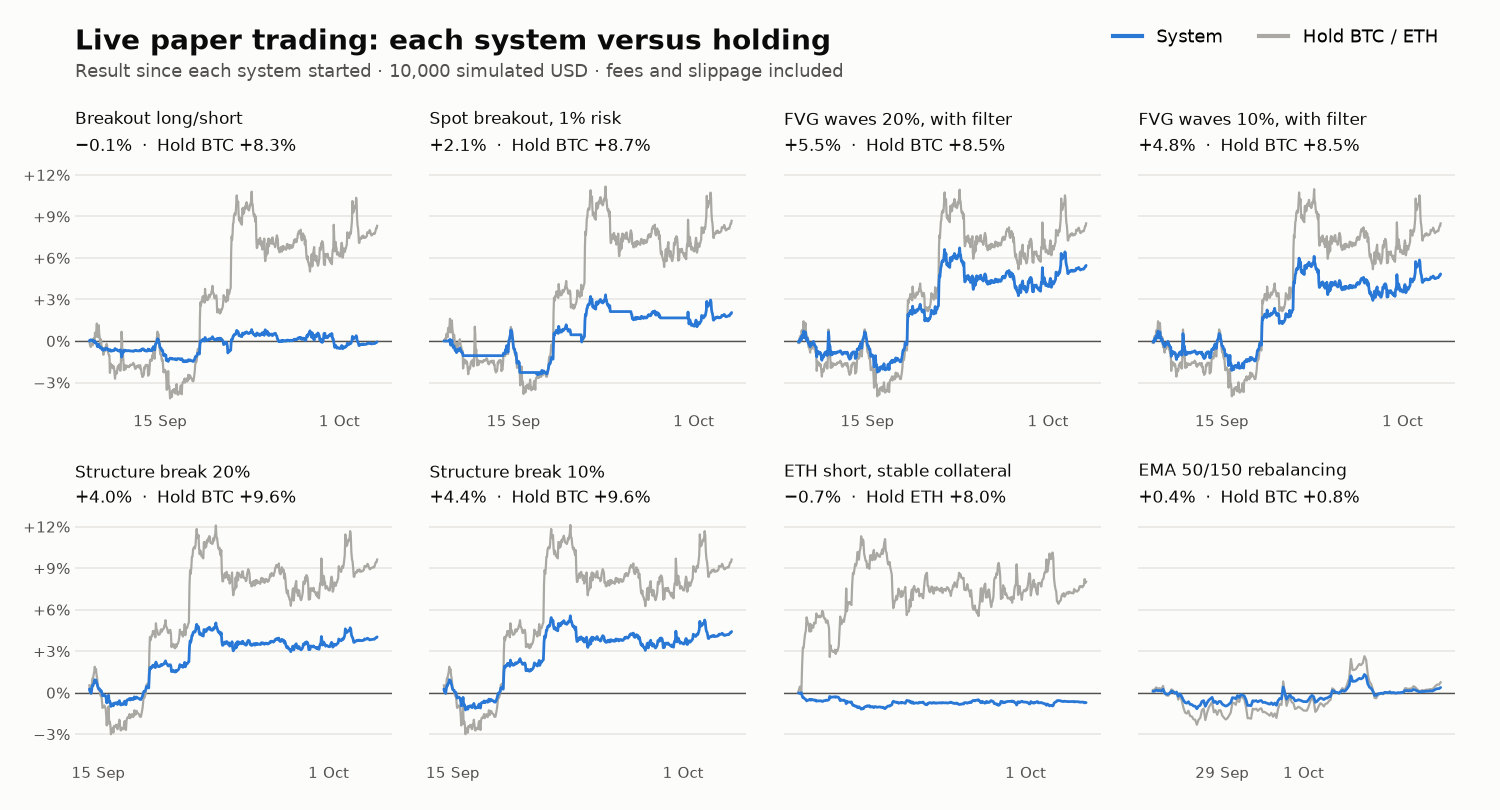
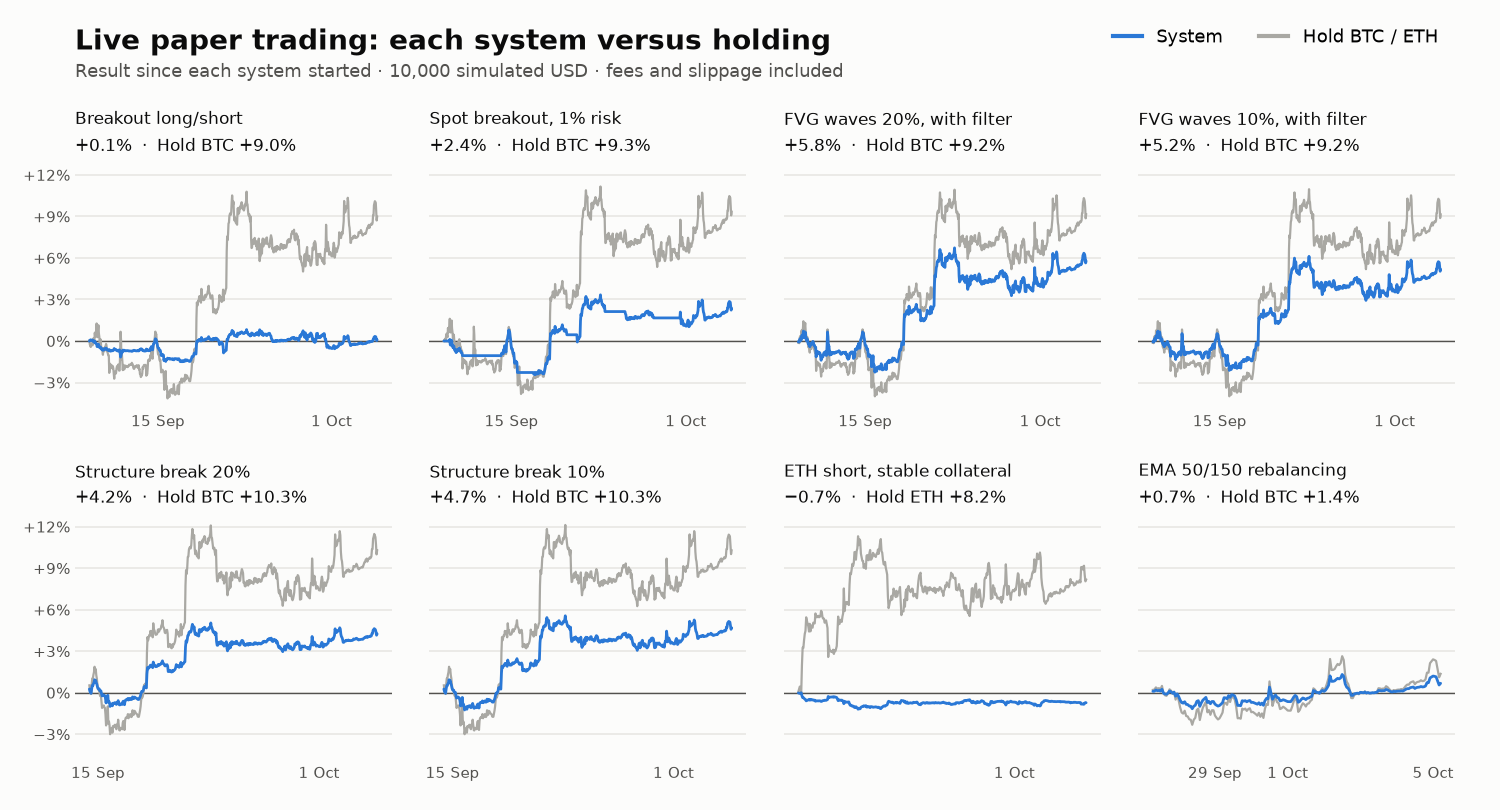
Paper trading: foto del 2026-10-05

diff --git a/live/README.es.md b/live/README.es.md
@@ -2,26 +2,26 @@
 
 [English](README.md) · **Español**
 
-**Actualizado el 4 oct 2026.** Esta página la regenera un script una vez al día a partir del estado de los motores. El historial de commits de esta carpeta deja fechada cada foto.
+**Actualizado el 5 oct 2026.** Esta página la regenera un script una vez al día a partir del estado de los motores. El historial de commits de esta carpeta deja fechada cada foto.
 
 ![Equity](equity_es.png)
 
 | Sistema | En marcha desde | Resultado | Caída máxima | Operaciones | Holdear en el periodo |
 |---|---|---|---|---|---|
-| Breakout long/short | 8 sep | −0,1% | −1,9% | 11 | +8,3% |
-| Breakout spot, riesgo 1% | 8 sep | +2,1% | −3,7% | 5 | +8,7% |
-| Ondas FVG 20% con filtro | 8 sep | +5,5% | −3,4% | 2 | +8,5% |
-| Ondas FVG 10% con filtro | 8 sep* | +4,8% | −3,2% | 2 | +8,5% |
-| Ruptura de estructura 20% | 14 sep | +4,0% | −2,2% | 2 | +9,6% |
-| Ruptura de estructura 10% | 14 sep* | +4,4% | −2,5% | 2 | +9,6% |
-| Corto ETH, colateral estable | 18 sep | −0,7% | −1,3% | 1 | ETH +8,0% |
-| Rebalanceo EMA 50/150 | 27 sep | +0,4% | −1,9% | 0 | +0,8% |
+| Breakout long/short | 8 sep | +0,1% | −1,9% | 11 | +9,0% |
+| Breakout spot, riesgo 1% | 8 sep | +2,4% | −3,7% | 5 | +9,3% |
+| Ondas FVG 20% con filtro | 8 sep | +5,8% | −3,4% | 2 | +9,2% |
+| Ondas FVG 10% con filtro | 8 sep* | +5,2% | −3,2% | 2 | +9,2% |
+| Ruptura de estructura 20% | 14 sep | +4,2% | −2,2% | 2 | +10,3% |
+| Ruptura de estructura 10% | 14 sep* | +4,7% | −2,5% | 2 | +10,3% |
+| Corto ETH, colateral estable | 18 sep | −0,7% | −1,3% | 1 | ETH +8,2% |
+| Rebalanceo EMA 50/150 | 27 sep | +0,7% | −1,9% | 0 | +1,4% |
 
 *\* Las variantes del 10% se añadieron el 22 de septiembre de 2026. Su histórico anterior se reconstruyó aplicando el nuevo tamaño a las señales ya ejecutadas.*
 
 ## Cómo leerlo
 
-- **0 de 8 sistemas van por delante de holdear** su activo desde que arrancaron. El más antiguo lleva 25 días: es poco tiempo para concluir nada sobre rentabilidad.
+- **0 de 8 sistemas van por delante de holdear** su activo desde que arrancaron. El más antiguo lleva 26 días: es poco tiempo para concluir nada sobre rentabilidad.
 - **Es dinero simulado.** Cada sistema parte de 10.000 USD ficticios. Ninguno tiene capital real.
 - **Se publica todo, también lo que va mal.** La tabla sale tal cual del estado de los motores, sin elegir sistemas ni periodos.
 - **Lo que esta fase comprueba es la operativa:** que el sistema en vivo hace lo mismo que el backtest.

diff --git a/live/README.md b/live/README.md
@@ -2,26 +2,26 @@
 
 **English** · [Español](README.es.md)
 
-**Updated on 4 Oct 2026.** A script regenerates this page once a day from the state of the engines. The commit history of this folder timestamps every snapshot.
+**Updated on 5 Oct 2026.** A script regenerates this page once a day from the state of the engines. The commit history of this folder timestamps every snapshot.
 
 ![Equity](equity_en.png)
 
 | System | Running since | Result | Max drawdown | Trades | Holding over the period |
 |---|---|---|---|---|---|
-| Breakout long/short | 8 Sep | −0.1% | −1.9% | 11 | +8.3% |
-| Spot breakout, 1% risk | 8 Sep | +2.1% | −3.7% | 5 | +8.7% |
-| FVG waves 20%, with filter | 8 Sep | +5.5% | −3.4% | 2 | +8.5% |
-| FVG waves 10%, with filter | 8 Sep* | +4.8% | −3.2% | 2 | +8.5% |
-| Structure break 20% | 14 Sep | +4.0% | −2.2% | 2 | +9.6% |
-| Structure break 10% | 14 Sep* | +4.4% | −2.5% | 2 | +9.6% |
-| ETH short, stable collateral | 18 Sep | −0.7% | −1.3% | 1 | ETH +8.0% |
-| EMA 50/150 rebalancing | 27 Sep | +0.4% | −1.9% | 0 | +0.8% |
+| Breakout long/short | 8 Sep | +0.1% | −1.9% | 11 | +9.0% |
+| Spot breakout, 1% risk | 8 Sep | +2.4% | −3.7% | 5 | +9.3% |
+| FVG waves 20%, with filter | 8 Sep | +5.8% | −3.4% | 2 | +9.2% |
+| FVG waves 10%, with filter | 8 Sep* | +5.2% | −3.2% | 2 | +9.2% |
+| Structure break 20% | 14 Sep | +4.2% | −2.2% | 2 | +10.3% |
+| Structure break 10% | 14 Sep* | +4.7% | −2.5% | 2 | +10.3% |
+| ETH short, stable collateral | 18 Sep | −0.7% | −1.3% | 1 | ETH +8.2% |
+| EMA 50/150 rebalancing | 27 Sep | +0.7% | −1.9% | 0 | +1.4% |
 
 *\* The 10% variants were added on 22 September 2026. Their earlier history was rebuilt by applying the new size to the signals already executed.*
 
 ## How to read it
 
-- **0 of 8 systems are ahead of holding** their asset since they started. The oldest has been running for 25 days: too short to conclude anything about profitability.
+- **0 of 8 systems are ahead of holding** their asset since they started. The oldest has been running for 26 days: too short to conclude anything about profitability.
 - **It is simulated money.** Each system starts from 10,000 fictional USD. None has real capital.
 - **Everything is published, including what goes badly.** The table comes straight from the state of the engines, with no picking of systems or periods.
 - **What this phase checks is the operation:** that the live system does the same as the backtest.
